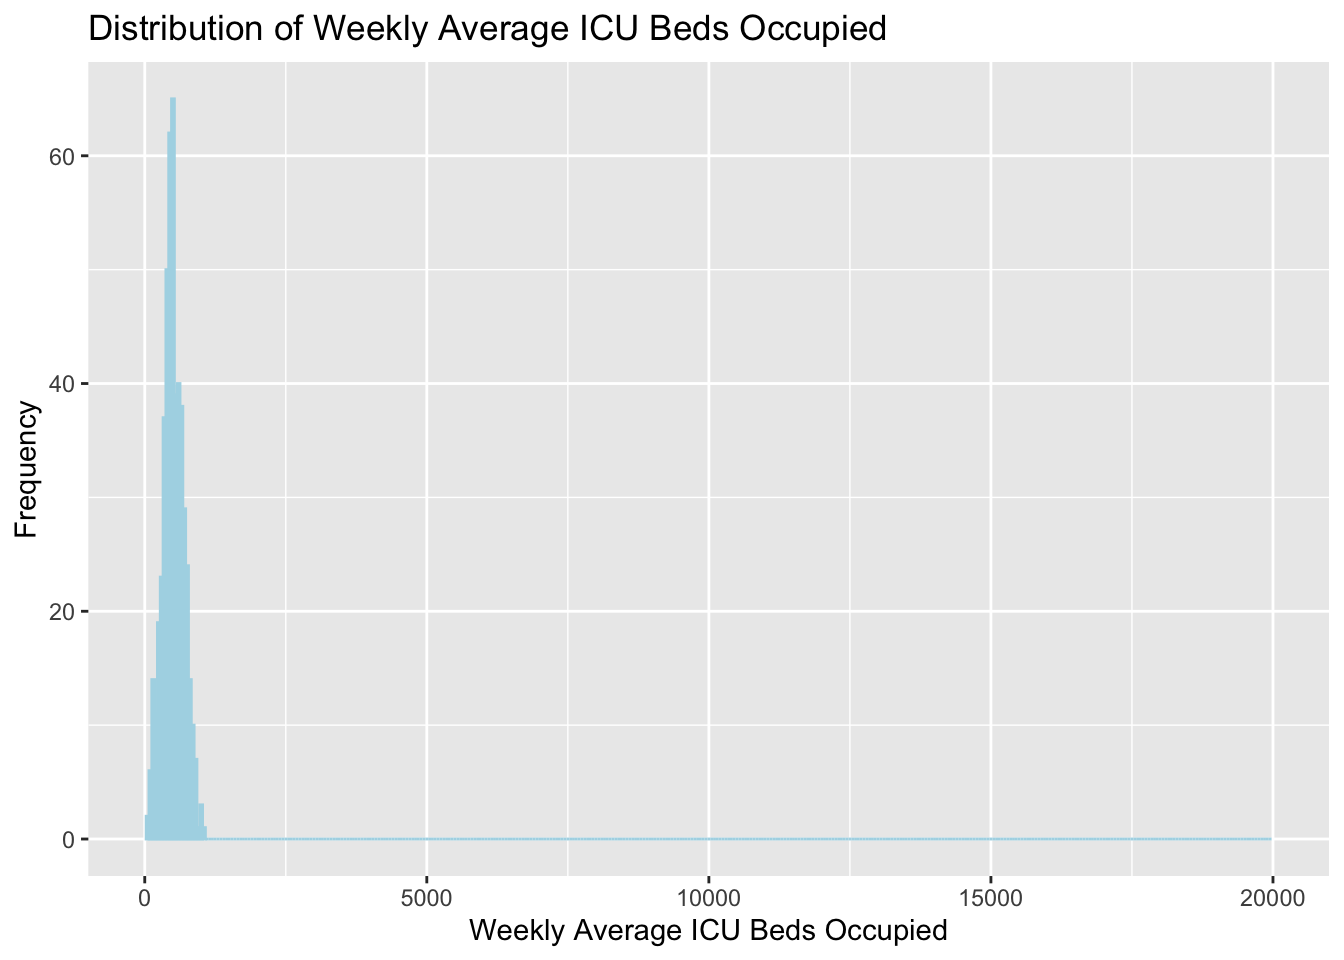
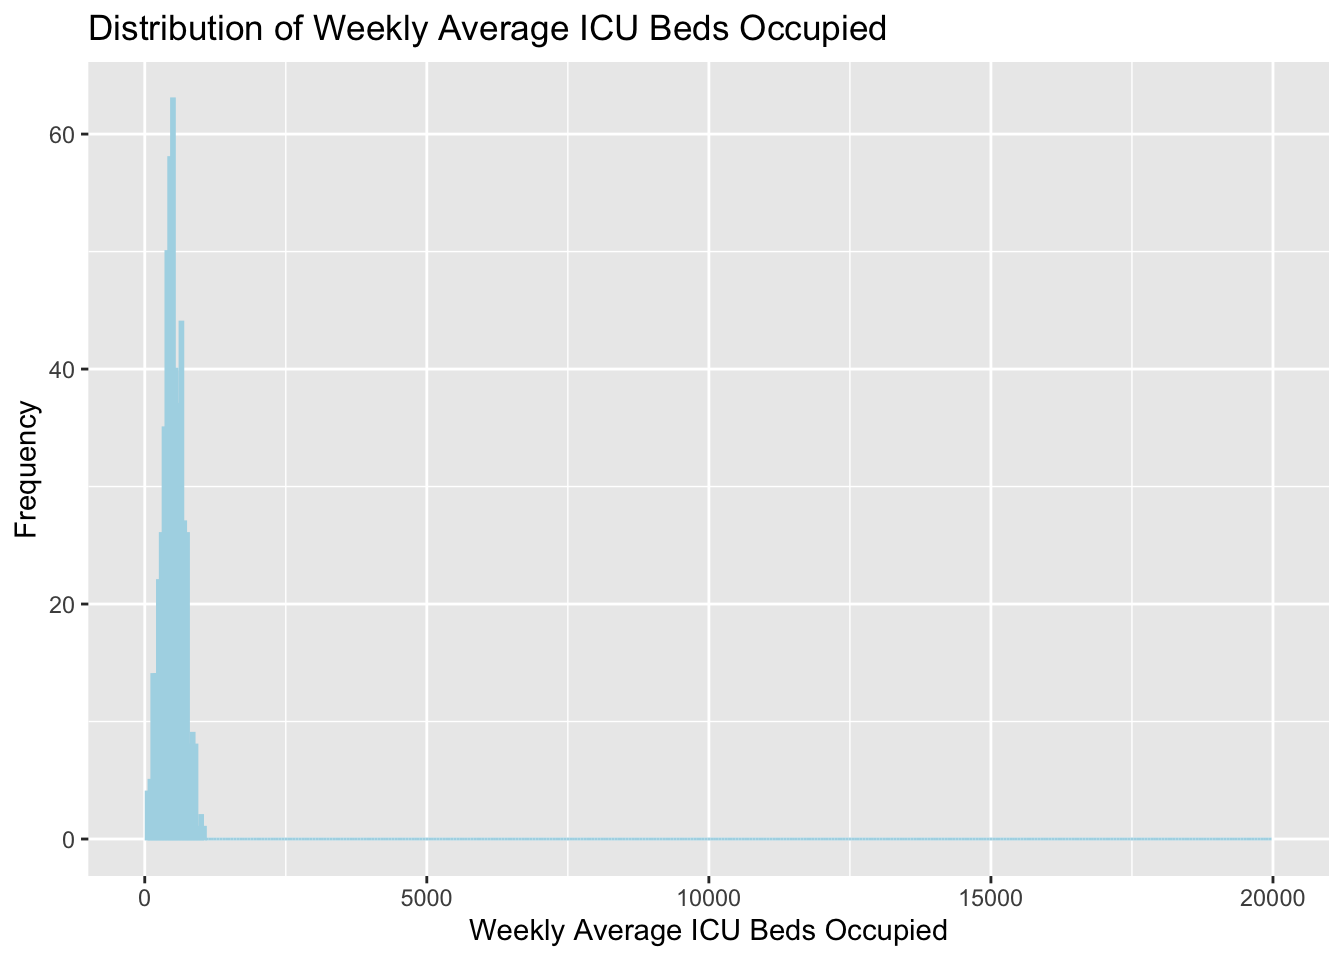
added comments to each plot and added similarities

diff --git a/docs/cdcdata-exercise/cdcdata-exercise.html b/docs/cdcdata-exercise/cdcdata-exercise.html
@@ -7,7 +7,7 @@
 <meta name="viewport" content="width=device-width, initial-scale=1.0, user-scalable=yes">
 
 <meta name="author" content="Seth Harris">
-<meta name="dcterms.date" content="2024-07-02">
+<meta name="dcterms.date" content="2024-07-05">
 
 <title>Seth Harris Data Analysis Portfolio - CDC Data Exploration on Weekly United States Hospitalization Metrics by Jurisdiction</title>
 <style>
@@ -192,7 +192,7 @@ pre > code.sourceCode > span > a:first-child::before { text-decoration: underlin
     <div>
     <div class="quarto-title-meta-heading">Published</div>
     <div class="quarto-title-meta-contents">
-      <p class="date">July 2, 2024</p>
+      <p class="date">July 5, 2024</p>
     </div>
   </div>
   
@@ -1139,7 +1139,7 @@ https://debruine.github.io/faux/
 <span id="cb42-8"><a href="#cb42-8" aria-hidden="true" tabindex="-1"></a>  <span class="st">`</span><span class="at">Weekly Average Percent COVID-19 Inpatient Bed Occupancy</span><span class="st">`</span> <span class="ot">=</span> <span class="fu">round</span>(<span class="fu">runif</span>(n, <span class="at">min =</span> <span class="dv">0</span>, <span class="at">max =</span> <span class="dv">100</span>), <span class="dv">2</span>),</span>
 <span id="cb42-9"><a href="#cb42-9" aria-hidden="true" tabindex="-1"></a>  <span class="st">`</span><span class="at">Weekly Average COVID-19 Admissions</span><span class="st">`</span> <span class="ot">=</span> <span class="fu">round</span>(<span class="fu">rnorm</span>(n, <span class="at">mean =</span> <span class="dv">1000</span>, <span class="at">sd =</span> <span class="dv">500</span>)),</span>
 <span id="cb42-10"><a href="#cb42-10" aria-hidden="true" tabindex="-1"></a>  <span class="st">`</span><span class="at">Percent Hospitals Reporting Inpatient Beds Occupied</span><span class="st">`</span> <span class="ot">=</span> <span class="fu">round</span>(<span class="fu">runif</span>(n, <span class="at">min =</span> <span class="dv">0</span>, <span class="at">max =</span> <span class="dv">100</span>), <span class="dv">2</span>),</span>
-<span id="cb42-11"><a href="#cb42-11" aria-hidden="true" tabindex="-1"></a>  <span class="st">`</span><span class="at">Weekly Average Inpatient Beds Occupied</span><span class="st">`</span> <span class="ot">=</span> <span class="fu">round</span>(<span class="fu">rnorm</span>(n, <span class="at">mean =</span> <span class="dv">2000</span>, <span class="at">sd =</span> <span class="dv">800</span>)),</span>
+<span id="cb42-11"><a href="#cb42-11" aria-hidden="true" tabindex="-1"></a>  <span class="st">`</span><span class="at">Weekly Average Inpatient Beds Occupied</span><span class="st">`</span> <span class="ot">=</span> <span class="fu">round</span>(<span class="fu">rexp</span>(n, <span class="at">rate =</span> <span class="fl">0.001</span>)),  <span class="co"># Right-skewed distribution</span></span>
 <span id="cb42-12"><a href="#cb42-12" aria-hidden="true" tabindex="-1"></a>  <span class="st">`</span><span class="at">Weekly Average ICU Beds Occupied</span><span class="st">`</span> <span class="ot">=</span> <span class="fu">round</span>(<span class="fu">rnorm</span>(n, <span class="at">mean =</span> <span class="dv">500</span>, <span class="at">sd =</span> <span class="dv">200</span>))</span>
 <span id="cb42-13"><a href="#cb42-13" aria-hidden="true" tabindex="-1"></a>)</span></code><button title="Copy to Clipboard" class="code-copy-button"><i class="bi"></i></button></pre></div>
 </div>
@@ -1185,12 +1185,12 @@ https://debruine.github.io/faux/
 5                                               24.64
 6                                               94.77
   Weekly.Average.Inpatient.Beds.Occupied Weekly.Average.ICU.Beds.Occupied
-1                                   2933                              501
-2                                  -1060                              741
-3                                   2779                              500
-4                                    500                              327
-5                                   2557                              453
-6                                    759                              -75</code></pre>
+1                                      0                              -85
+2                                   2709                              420
+3                                    670                              -47
+4                                   1407                              409
+5                                    514                              687
+6                                     42                              432</code></pre>
 </div>
 <div class="sourceCode cell-code" id="cb45"><pre class="sourceCode r code-with-copy"><code class="sourceCode r"><span id="cb45-1"><a href="#cb45-1" aria-hidden="true" tabindex="-1"></a><span class="fu">summary</span>(synthetic_data)</span></code><button title="Copy to Clipboard" class="code-copy-button"><i class="bi"></i></button></pre></div>
 <div class="cell-output cell-output-stdout">
@@ -1230,12 +1230,12 @@ https://debruine.github.io/faux/
  3rd Qu.:76.63                                      
  Max.   :99.76                                      
  Weekly.Average.Inpatient.Beds.Occupied Weekly.Average.ICU.Beds.Occupied
- Min.   :-1060                          Min.   : -88.0                  
- 1st Qu.: 1480                          1st Qu.: 382.5                  
- Median : 2044                          Median : 495.5                  
- Mean   : 1993                          Mean   : 499.6                  
- 3rd Qu.: 2524                          3rd Qu.: 628.2                  
- Max.   : 5081                          Max.   :1050.0                  </code></pre>
+ Min.   :   0.0                         Min.   : -85.0                  
+ 1st Qu.: 298.8                         1st Qu.: 375.0                  
+ Median : 697.0                         Median : 488.5                  
+ Mean   :1007.5                         Mean   : 490.2                  
+ 3rd Qu.:1339.0                         3rd Qu.: 626.0                  
+ Max.   :6945.0                         Max.   :1050.0                  </code></pre>
 </div>
 </div>
 <p>Perform Exploratory Data Analysis (EDA):</p>
@@ -1281,12 +1281,12 @@ https://debruine.github.io/faux/
  3rd Qu.:76.63                                      
  Max.   :99.76                                      
  Weekly.Average.Inpatient.Beds.Occupied Weekly.Average.ICU.Beds.Occupied
- Min.   :-1060                          Min.   : -88.0                  
- 1st Qu.: 1480                          1st Qu.: 382.5                  
- Median : 2044                          Median : 495.5                  
- Mean   : 1993                          Mean   : 499.6                  
- 3rd Qu.: 2524                          3rd Qu.: 628.2                  
- Max.   : 5081                          Max.   :1050.0                  </code></pre>
+ Min.   :   0.0                         Min.   : -85.0                  
+ 1st Qu.: 298.8                         1st Qu.: 375.0                  
+ Median : 697.0                         Median : 488.5                  
+ Mean   :1007.5                         Mean   : 490.2                  
+ 3rd Qu.:1339.0                         3rd Qu.: 626.0                  
+ Max.   :6945.0                         Max.   :1050.0                  </code></pre>
 </div>
 </div>
 </section>
@@ -1306,13 +1306,21 @@ https://debruine.github.io/faux/
 <p><img src="cdcdata-exercise_files/figure-html/unnamed-chunk-21-1.png" class="img-fluid" width="672"></p>
 </div>
 </div>
+<p>Description of the Plot:</p>
+<p>The histogram shown in the plot visualizes the distribution of Weekly Average COVID-19 Admissions from the synthetic dataset. Here are the key observations:</p>
+<p>X-axis: The Weekly Average COVID-19 Admissions, ranging from 0 to 50,000.</p>
+<p>Y-axis: The Frequency, indicating the number of jurisdictions reporting particular ranges of weekly average COVID-19 admissions.</p>
+<p>The distribution is highly right-skewed, with most jurisdictions reporting relatively low weekly average COVID-19 admissions.</p>
+<p>There is a significant concentration of data points on the lower end of the spectrum, with the majority of the frequencies clustered around the lower values.</p>
+<p>The long tail to the right indicates the presence of outliers, jurisdictions with exceptionally high weekly average COVID-19 admissions. Interpretation.</p>
+<p>The histogram effectively illustrates the disparity in COVID-19 impact across different jurisdictions, showing that while most areas experienced lower average admissions, a few regions faced extremely high admissions, pointing to potential hotspots or areas with larger outbreaks during the reporting period. This pattern can inform public health officials and policymakers about resource allocation and preparedness strategies.</p>
 </section>
 <section id="plot-the-distribution-of-weekly-average-inpatient-beds-occupied" class="level1">
 <h1>Plot the distribution of Weekly Average Inpatient Beds Occupied:</h1>
 <div class="cell">
 <div class="sourceCode cell-code" id="cb52"><pre class="sourceCode r code-with-copy"><code class="sourceCode r"><span id="cb52-1"><a href="#cb52-1" aria-hidden="true" tabindex="-1"></a><span class="fu">ggplot</span>(synthetic_data, <span class="fu">aes</span>(<span class="at">x =</span> <span class="st">`</span><span class="at">Weekly.Average.Percent.COVID.19.Inpatient.Bed.Occupancy</span><span class="st">`</span>)) <span class="sc">+</span></span>
 <span id="cb52-2"><a href="#cb52-2" aria-hidden="true" tabindex="-1"></a>  <span class="fu">geom_histogram</span>(<span class="at">fill =</span> <span class="st">"blue"</span>, <span class="at">color =</span> <span class="st">"red"</span>) <span class="sc">+</span></span>
-<span id="cb52-3"><a href="#cb52-3" aria-hidden="true" tabindex="-1"></a>  <span class="fu">labs</span>(<span class="at">title =</span> <span class="st">"Distribution of Weekly Average Inpatient Beds Occupied"</span>, <span class="at">x =</span> <span class="st">"Weekly Average Inpatient Beds Occupied"</span>, <span class="at">y =</span> <span class="st">"Frequency"</span>)<span class="sc">+</span><span class="fu">xlim</span>(<span class="dv">0</span>, <span class="dv">150</span>)</span></code><button title="Copy to Clipboard" class="code-copy-button"><i class="bi"></i></button></pre></div>
+<span id="cb52-3"><a href="#cb52-3" aria-hidden="true" tabindex="-1"></a>  <span class="fu">labs</span>(<span class="at">title =</span> <span class="st">"Distribution of Weekly Average Inpatient Beds Occupied"</span>, <span class="at">x =</span> <span class="st">"Weekly Average Inpatient Beds Occupied"</span>, <span class="at">y =</span> <span class="st">"Frequency"</span>)<span class="sc">+</span><span class="fu">xlim</span>(<span class="dv">0</span>, <span class="dv">200</span>)</span></code><button title="Copy to Clipboard" class="code-copy-button"><i class="bi"></i></button></pre></div>
 <div class="cell-output cell-output-stderr">
 <pre><code>`stat_bin()` using `bins = 30`. Pick better value with `binwidth`.</code></pre>
 </div>
@@ -1323,6 +1331,12 @@ https://debruine.github.io/faux/
 <p><img src="cdcdata-exercise_files/figure-html/unnamed-chunk-22-1.png" class="img-fluid" width="672"></p>
 </div>
 </div>
+<p>Description of the Plot:</p>
+<p>The histogram shown in the plot visualizes the distribution of Weekly Average Inpatient Beds Occupied from the synthetic dataset. Here are the key observations:</p>
+<p>1.X-axis: The Weekly Average Inpatient Beds Occupied, ranging from 0 to 200.</p>
+<p>2.Y-axis: The Frequency, indicating the number of jurisdictions reporting particular ranges of weekly average inpatient beds occupied.</p>
+<p>This histogram of the synthetic data for Weekly Average Inpatient Beds Occupied provides insights into how inpatient bed occupancy is distributed across different jurisdictions. The relatively even distribution and multiple peaks could indicate varying levels of hospital bed occupancy across regions, possibly influenced by different factors such as the population size, healthcare capacity, and severity of outbreaks.The histogram should show a high concentration of lower values with a long tail extending to the right, indicating a few very high values.</p>
+<p>This distribution highlights that while some jurisdictions have lower inpatient bed occupancy, others experience higher levels, showcasing the diversity in hospital resource utilization.</p>
 </section>
 <section id="plot-the-distribution-of-weekly-average-icu-beds-occupied" class="level1">
 <h1>Plot the distribution of Weekly Average ICU Beds Occupied:</h1>
@@ -1331,7 +1345,7 @@ https://debruine.github.io/faux/
 <span id="cb55-2"><a href="#cb55-2" aria-hidden="true" tabindex="-1"></a>  <span class="fu">geom_histogram</span>(<span class="at">binwidth =</span> <span class="dv">50</span>, <span class="at">fill =</span> <span class="st">"lightblue"</span>, <span class="at">color =</span> <span class="st">"lightblue"</span>) <span class="sc">+</span></span>
 <span id="cb55-3"><a href="#cb55-3" aria-hidden="true" tabindex="-1"></a>  <span class="fu">labs</span>(<span class="at">title =</span> <span class="st">"Distribution of Weekly Average ICU Beds Occupied"</span>, <span class="at">x =</span> <span class="st">"Weekly Average ICU Beds Occupied"</span>, <span class="at">y =</span> <span class="st">"Frequency"</span>)<span class="sc">+</span><span class="fu">xlim</span>(<span class="dv">0</span>, <span class="dv">20000</span>)</span></code><button title="Copy to Clipboard" class="code-copy-button"><i class="bi"></i></button></pre></div>
 <div class="cell-output cell-output-stderr">
-<pre><code>Warning: Removed 4 rows containing non-finite values (`stat_bin()`).</code></pre>
+<pre><code>Warning: Removed 5 rows containing non-finite values (`stat_bin()`).</code></pre>
 </div>
 <div class="cell-output cell-output-stderr">
 <pre><code>Warning: Removed 2 rows containing missing values (`geom_bar()`).</code></pre>
@@ -1340,6 +1354,12 @@ https://debruine.github.io/faux/
 <p><img src="cdcdata-exercise_files/figure-html/unnamed-chunk-23-1.png" class="img-fluid" width="672"></p>
 </div>
 </div>
+<p>Description of the Plot:</p>
+<p>The histogram shown in the plot visualizes the distribution of Weekly Average ICU Beds Occupied from the synthetic dataset.</p>
+<p>1.X-axis: The Weekly Average ICU Beds Occupied.</p>
+<p>2.Y-axis: The Frequency, indicating the number of jurisdictions reporting particular ranges of weekly average ICU beds occupied.</p>
+<p>This histogram exhibits a clear right skew. The majority of the data points are concentrated at the lower end of the range (close to 0), with a long tail extending to the right.</p>
+<p>This indicates that the majority of jurisdictions have low to moderate weekly average ICU bed occupancy, but a few jurisdictions experience much higher occupancy levels. This pattern suggests that while most areas manage with fewer occupied ICU beds, certain regions face significant demand, potentially due to higher population densities or more severe outbreaks.</p>
 </section>
 <section id="summary-of-categorical-variable-geographic-aggregation" class="level1">
 <h1>Summary of categorical variable ‘Geographic aggregation’:</h1>
@@ -1401,6 +1421,15 @@ https://debruine.github.io/faux/
 <p><img src="cdcdata-exercise_files/figure-html/unnamed-chunk-28-1.png" class="img-fluid" width="672"></p>
 </div>
 </div>
+<p>Description of the Plot:</p>
+<p>The bar plot visualizes the Weekly Average COVID-19 Admissions for selected states. Here are the key observations:</p>
+<ol type="1">
+<li>X-axis: The Weekly Average COVID-19 Admissions.</li>
+</ol>
+<p>2.Y-axis: The Geographic Aggregation, representing different selected states.</p>
+<p>This bar plot provides a clear visual comparison of the weekly average COVID-19 admissions across different states. It highlights the states with the highest and lowest average admissions, which can be useful for identifying areas with greater healthcare needs and resource allocation.</p>
+<p>State10: The high average admissions suggest that this state experienced a particularly severe impact from COVID-19, necessitating more healthcare resources and support.</p>
+<p>State1: The lower admissions indicate relatively less strain on the healthcare system in this state compared to others.</p>
 </section>
 <section id="create-boxplot-for-weekly-average-percent-covid-19-inpatient-bed-occupancy" class="level1">
 <h1>Create boxplot for Weekly Average Percent COVID-19 Inpatient Bed Occupancy:</h1>
@@ -1408,11 +1437,17 @@ https://debruine.github.io/faux/
 <div class="sourceCode cell-code" id="cb65"><pre class="sourceCode r code-with-copy"><code class="sourceCode r"><span id="cb65-1"><a href="#cb65-1" aria-hidden="true" tabindex="-1"></a><span class="fu">ggplot</span>(filtered_data, <span class="fu">aes</span>(<span class="at">x =</span> <span class="st">`</span><span class="at">Geographic.aggregation</span><span class="st">`</span>, <span class="at">y =</span> <span class="st">`</span><span class="at">Weekly.Average.Percent.COVID.19.Inpatient.Bed.Occupancy</span><span class="st">`</span>)) <span class="sc">+</span></span>
 <span id="cb65-2"><a href="#cb65-2" aria-hidden="true" tabindex="-1"></a>  <span class="fu">geom_boxplot</span>(<span class="at">fill =</span> <span class="st">"lightblue"</span>, <span class="at">color =</span> <span class="st">"darkblue"</span>) <span class="sc">+</span></span>
 <span id="cb65-3"><a href="#cb65-3" aria-hidden="true" tabindex="-1"></a>  <span class="fu">coord_flip</span>() <span class="sc">+</span></span>
-<span id="cb65-4"><a href="#cb65-4" aria-hidden="true" tabindex="-1"></a>  <span class="fu">labs</span>(<span class="at">title =</span> <span class="st">"Boxplot of Weekly Average Percent COVID-19 Inpatient Bed Occupancy by State"</span>, <span class="at">x =</span> <span class="st">"Geographic Aggregation"</span>, <span class="at">y =</span> <span class="st">"Weekly Average Percent COVID-19 Inpatient Bed Occupancy"</span>)<span class="sc">+</span><span class="fu">ylim</span>(<span class="dv">0</span>, <span class="dv">1000</span>)</span></code><button title="Copy to Clipboard" class="code-copy-button"><i class="bi"></i></button></pre></div>
+<span id="cb65-4"><a href="#cb65-4" aria-hidden="true" tabindex="-1"></a>  <span class="fu">labs</span>(<span class="at">title =</span> <span class="st">"Boxplot of Weekly Average Percent COVID-19 Inpatient Bed Occupancy by State"</span>, <span class="at">x =</span> <span class="st">"Geographic Aggregation"</span>, <span class="at">y =</span> <span class="st">"Weekly Average Percent COVID-19 Inpatient Bed Occupancy"</span>)<span class="sc">+</span><span class="fu">ylim</span>(<span class="dv">0</span>, <span class="dv">100</span>)</span></code><button title="Copy to Clipboard" class="code-copy-button"><i class="bi"></i></button></pre></div>
 <div class="cell-output-display">
 <p><img src="cdcdata-exercise_files/figure-html/unnamed-chunk-29-1.png" class="img-fluid" width="672"></p>
 </div>
 </div>
+<p>Description of the Plot:</p>
+<p>The boxplot visualizes the Weekly Average Percent COVID-19 Inpatient Bed Occupancy for selected states. Here are the key observations:</p>
+<p>1.X-axis: The Weekly Average Percent COVID-19 Inpatient Bed Occupancy.</p>
+<p>2.Y-axis: The Geographic Aggregation, representing different selected states.</p>
+<p>This boxplot provides a clear visual comparison of the weekly average percent COVID-19 inpatient bed occupancy across different states. It highlights the differences in central tendency (median), spread (IQR), and overall range (whiskers) of bed occupancy percentages, indicating how various states managed their inpatient bed capacities during the reporting period.</p>
+<p>States with High Occupancy Rates: States like State9 have higher median occupancy rates, suggesting higher utilization of inpatient beds for COVID-19 patients. States with Lower Occupancy Rates: States like State1 have lower median occupancy rates, indicating relatively less strain on their inpatient bed capacity.</p>
 </section>
 <section id="create-boxplot-for-percent-hospitals-reporting-inpatient-beds-occupied" class="level1">
 <h1>Create boxplot for Percent Hospitals Reporting Inpatient Beds Occupied:</h1>
@@ -1425,6 +1460,13 @@ https://debruine.github.io/faux/
 <p><img src="cdcdata-exercise_files/figure-html/unnamed-chunk-30-1.png" class="img-fluid" width="672"></p>
 </div>
 </div>
+<p>Description of the Plot:</p>
+<p>The boxplot visualizes the Percent Hospitals Reporting Inpatient Beds Occupied by state. Here are the key observations:</p>
+<p>1.X-axis: The Percent Hospitals Reporting Inpatient Beds Occupied.</p>
+<p>2.Y-axis: The Geographic Aggregation, representing different selected states.</p>
+<p>This boxplot provides a clear visual comparison of the percentage of hospitals reporting inpatient beds occupied across different states. It highlights the differences in central tendency (median), spread (IQR), and overall range (whiskers) of reporting percentages, indicating how various states managed their inpatient bed reporting during the reporting period.</p>
+<p>States with High Reporting Percentages: States like State10 have higher median reporting percentages, suggesting higher compliance or higher utilization of inpatient beds.</p>
+<p>States with Lower Reporting Percentages: States like State1 have lower median reporting percentages, indicating relatively less strain on their inpatient bed capacity or lower compliance in reporting.</p>
 </section>
 <section id="create-boxplot-for-weekly-average-inpatient-beds-occupied" class="level1">
 <h1>Create boxplot for Weekly Average Inpatient Beds Occupied:</h1>
@@ -1437,6 +1479,13 @@ https://debruine.github.io/faux/
 <p><img src="cdcdata-exercise_files/figure-html/unnamed-chunk-31-1.png" class="img-fluid" width="672"></p>
 </div>
 </div>
+<p>Description of the Plot:</p>
+<p>The boxplot visualizes the Weekly Average Inpatient Beds Occupied by state. Here are the key observations:</p>
+<p>1.X-axis: The Weekly Average Inpatient Beds Occupied.</p>
+<p>2.Y-axis: The Geographic Aggregation, representing different selected states.</p>
+<p>This boxplot provides a clear visual comparison of the weekly average inpatient beds occupied across different states. It highlights the differences in central tendency (median), spread (IQR), overall range (whiskers), and the presence of outliers, indicating how various states managed their inpatient bed capacities during the reporting period.</p>
+<p>States with High Occupancy Rates: States like State9 have higher median occupancy rates, suggesting higher utilization of inpatient beds.</p>
+<p>States with Lower Occupancy Rates: States like State1 have lower median occupancy rates, indicating relatively less strain on their inpatient bed capacity.</p>
 </section>
 <section id="create-boxplot-for-weekly-average-icu-beds-occupied" class="level1">
 <h1>Create boxplot for Weekly Average ICU Beds Occupied:</h1>
@@ -1449,16 +1498,28 @@ https://debruine.github.io/faux/
 <p><img src="cdcdata-exercise_files/figure-html/unnamed-chunk-32-1.png" class="img-fluid" width="672"></p>
 </div>
 </div>
-<p>Explanation and Comparison:</p>
+<p>Description of the Plot:</p>
+<p>The boxplot visualizes the Weekly Average ICU Beds Occupied by state. Here are the key observations:</p>
+<p>1.X-axis: The Weekly Average ICU Beds Occupied.</p>
+<p>2.Y-axis: The Geographic Aggregation, representing different selected states.</p>
+<p>This boxplot provides a clear visual comparison of the weekly average ICU beds occupied across different states. It highlights the differences in central tendency (median), spread (IQR), overall range (whiskers), and the presence of outliers, indicating how various states managed their ICU bed capacities during the reporting period.</p>
+<p>States with High ICU Bed Occupancy Rates: States like State6 have higher median occupancy rates, suggesting higher utilization of ICU beds.</p>
+<p>States with Lower ICU Bed Occupancy Rates: States like State10 have lower median occupancy rates, indicating relatively less strain on their ICU bed capacity.</p>
+<section id="explanation-and-comparison" class="level2">
+<h2 class="anchored" data-anchor-id="explanation-and-comparison">Explanation and Comparison:</h2>
 <p>Generating Synthetic Data:</p>
 <p>The synthetic data is generated with the same structure and similar statistical properties as the original data. This includes date ranges, geographic aggregation categories, and numeric ranges for key metrics.</p>
 <p>The faux package is used to create the synthetic data with the required number of observations and similar distribution characteristics.</p>
-<p>Exploratory Data Analysis:</p>
+</section>
+<section id="similarities" class="level2">
+<h2 class="anchored" data-anchor-id="similarities">Similarities:</h2>
 <p>The EDA on synthetic data involves summarizing key variables and plotting distributions and boxplots to understand central tendencies and variability.</p>
+<p>The synthetic data plot closely mirrors the distribution characteristics of the original data plot, particularly in terms of the right-skewed distribution and concentration of lower values for Weekly Average COVID-19 Admissions .</p>
 <p>The histograms show the distribution of weekly averages for COVID-19 admissions, inpatient beds occupied, and ICU beds occupied. They exhibit similar patterns to the original data, with right-skewed distributions.</p>
 <p>The boxplots provide insights into variability across different states, with central tendencies and outliers indicating similarities and differences in hospital metrics.</p>
 
 
+</section>
 </section>
 
 </main> <!-- /main -->
